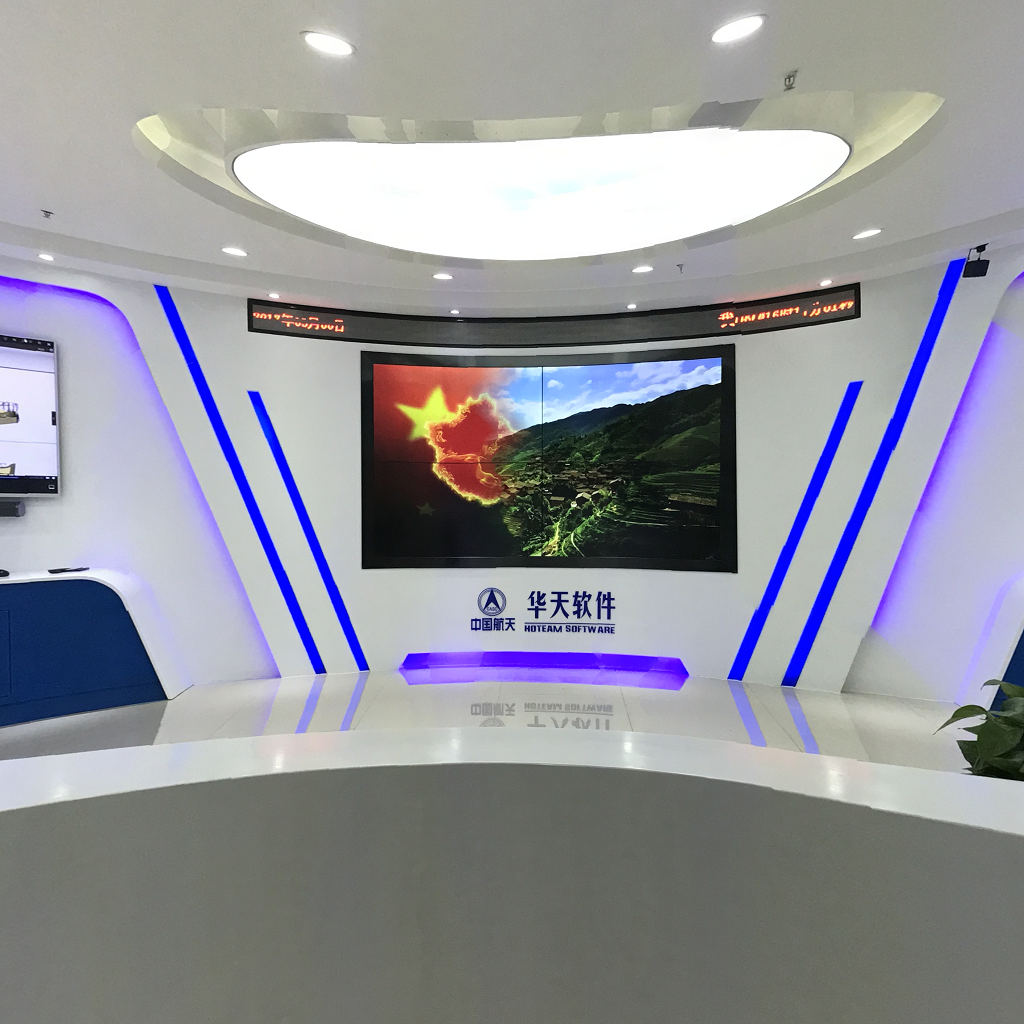
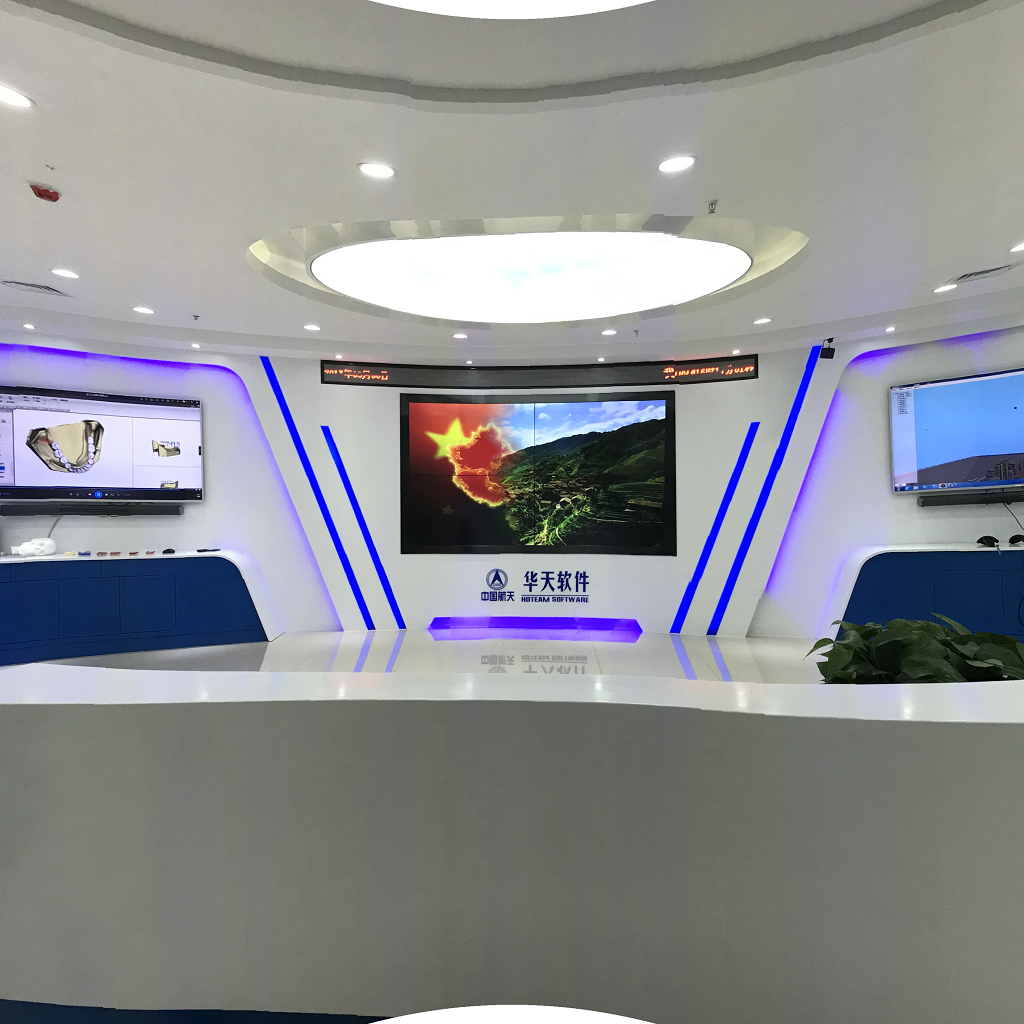
change back

diff --git a/cubemap/index.html b/cubemap/index.html
@@ -53,7 +53,7 @@
 				controls = new THREE.OrbitControls( camera );
 				controls.minDistance = 500;
 				controls.maxDistance = 2500;
-				controls.minPolarAngle = THREE.Math.degToRad(65);
+				controls.minPolarAngle = THREE.Math.degToRad(80);
 				controls.maxPolarAngle = THREE.Math.degToRad(100);
 
 				var path = "huatian/";
